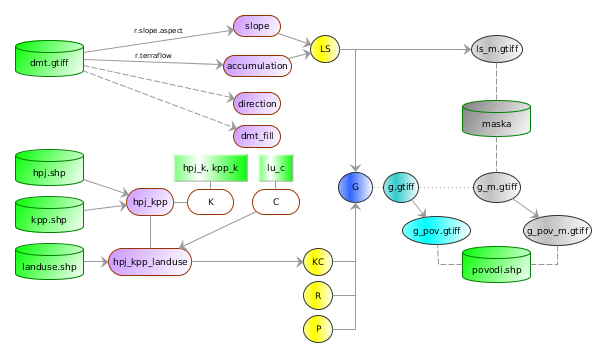
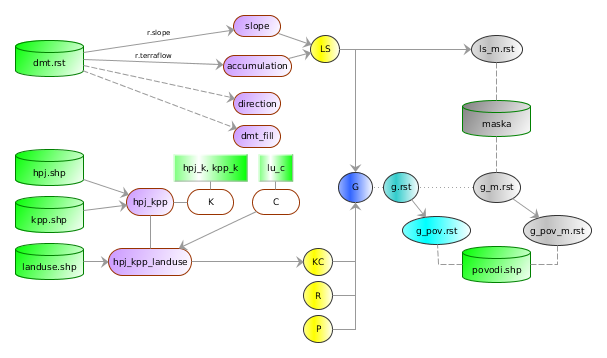
some name unifications + G average creation

diff --git a/hydrologie/usle.rst b/hydrologie/usle.rst
@@ -64,7 +64,7 @@ Základné symboly
 Vstupné dáta
 ------------
 
- * :map:`dmt.gtiff` - digitálny model terénu v rozlišení 10 x 10 m
+ * :map:`dmt` - digitálny model terénu v rozlišení 10 x 10 m
  * :map:`hpj.shp` - vektorová vrstva hlavných pôdnych jednotiek (z kódov BPEJ),
  * :map:`kpp.shp` - vektorová vrstva komplexného prieskumu pôd,
  * :map:`landuse.shp` - vektorová vrstva využitia územia,
@@ -103,13 +103,13 @@ vytvorenie rastrovej mapy sklonu a mapy akumulácií toku v každej bunke
 výpočet parametra `LS`
 
 :ref:`8.<krok8>` 
-výpočet parametra `G`
+vytvorenie rastra s hodnotami predstavujúcimi priemernú dlhodobú stratu pôdy `G`
 
 :ref:`9.<krok9>` 
-vytvorenie rastrových vrstiev :map:`g.gtiff`, :map:`g_m.gtiff` a :map:`ls_m.gtiff`
+vytvorenie rastrových vrstiev :map:`ls_m` a :map:`g_m`.
 
 :ref:`10.<krok10>` 
-výpočet priemerných hodnôt `G` pre povodie s maskou a bez masky a vytvorenie :map:`g_pov.gtiff` a :map:`g_pov_m.gtiff`
+výpočet priemerných hodnôt `G` pre povodie s maskou a bez masky a vytvorenie :map:`g_pov` a :map:`g_pov_m`
 
 Na :num:`#schema-usle` je prehľadne znázornený navrhovaný postup. 
 
@@ -320,18 +320,44 @@ Výraz na výpočet `LS` a výsledok sú na :num:`#calc-ls`.
 
 Krok 8
 ^^^^^^
-8. výpočet parametra `G`
+Na výpočet parametra `G` okrem `KC` a `LS` ešte potrebujeme faktor `R` a `P`, 
+ktorých hodnoty nebudeme odvádzať ako tie predchádzajúce. Použijeme priemernú 
+hodnotu ``R`` a ``P`` faktora pre Českú republiku, t.j ``R = 40`` a ``P = 1``.
+Následne modulom |r.mapcalc| :sup:`r.mapcalc` vypočítame stratu pôdy, viď. 
+:ref:`vzťah na výpočet G <vzorec-G>`. Vrstva s hodnotami predstavujúcimi 
+priemernú dlhodobú stratu pôdy v jednotkách :math:`t.ha^{-1} . rok^{-1}` je 
+na :num:`#g-map`.
+
+.. _g-map:
+
+.. figure:: images/g_map.png
+   :class: small
+
+   Priemerná dlhodobá strata pôdy pre riešené územie. 
 
 .. _krok9:
 
 Krok 9
 ^^^^^^
-9. vytvorenie rastrových vrstiev :map:`g.gtiff`, :map:`g_m.gtiff` a :map:`ls_m.gtiff`
+.. todo:: vytvorenie rastrových vrstiev :map:`ls_m` a :map:`g_m`.
 
 .. _krok10:
 
 Krok 10
 ^^^^^^^
-10. výpočet priemerných hodnôt `G` pre povodie s maskou a bez masky a vytvorenie rastrových vrstiev :map:`g_pov.gtiff` a :map:`g_pov_m.gtiff`
+Na určenie priemernej hodnoty a sumy straty pre každé čiastkové
+povodie využijeme modul |v.rast.stats| :sup:`v.rast.stats`. Kľúčovou vrstvou je
+vektorová mapa povodí :map:`povodi`, kde nastavíme prefix
+:item:`g_` pre novovytvorený stĺpec. V prostredí QGIS hodnoty vizualizujeme 
+(:num:`g-pov`).
+
+.. _g-pov:
+
+.. figure:: images/g_pov_map.png
+   :class: small
+
+   Povodia s priemernými hodnotami straty pôdy v jednotkách :math:`t.ha^{-1}.rok^{-1}`. 
+
+.. todo:: 10. výpočet priemerných hodnôt `G` pre povodie s maskou a vytvorenie :map:`g_pov_m`
 
 

diff --git a/hydrologie/scs-cn.rst b/hydrologie/scs-cn.rst
@@ -121,10 +121,10 @@ výpočet výmery elementárnych plôch, parametra :math:`A` a parametra :math:`
 výpočet parametra :math:`H_o` a parametra :math:`O_p` pre každú elementárnu plochu
 
 :ref:`8.<kr8>` 
-vytvorenie rastrových vrstiev :map:`ho.gtiff` a :map:`op.gtiff`
+vytvorenie rastrových vrstiev :map:`ho` a :map:`op`
 
 :ref:`9.<kr9>` 
-výpočet priemerných hodnôt priameho odtoku pre povodie a vytvorenie rastrových vrstiev :map:`ho_pov.gtiff` a :map:`op_pov.gtiff`
+výpočet priemerných hodnôt priameho odtoku pre povodie a vytvorenie rastrových vrstiev :map:`ho_pov` a :map:`op_pov`
 
 .. _schema:
 
